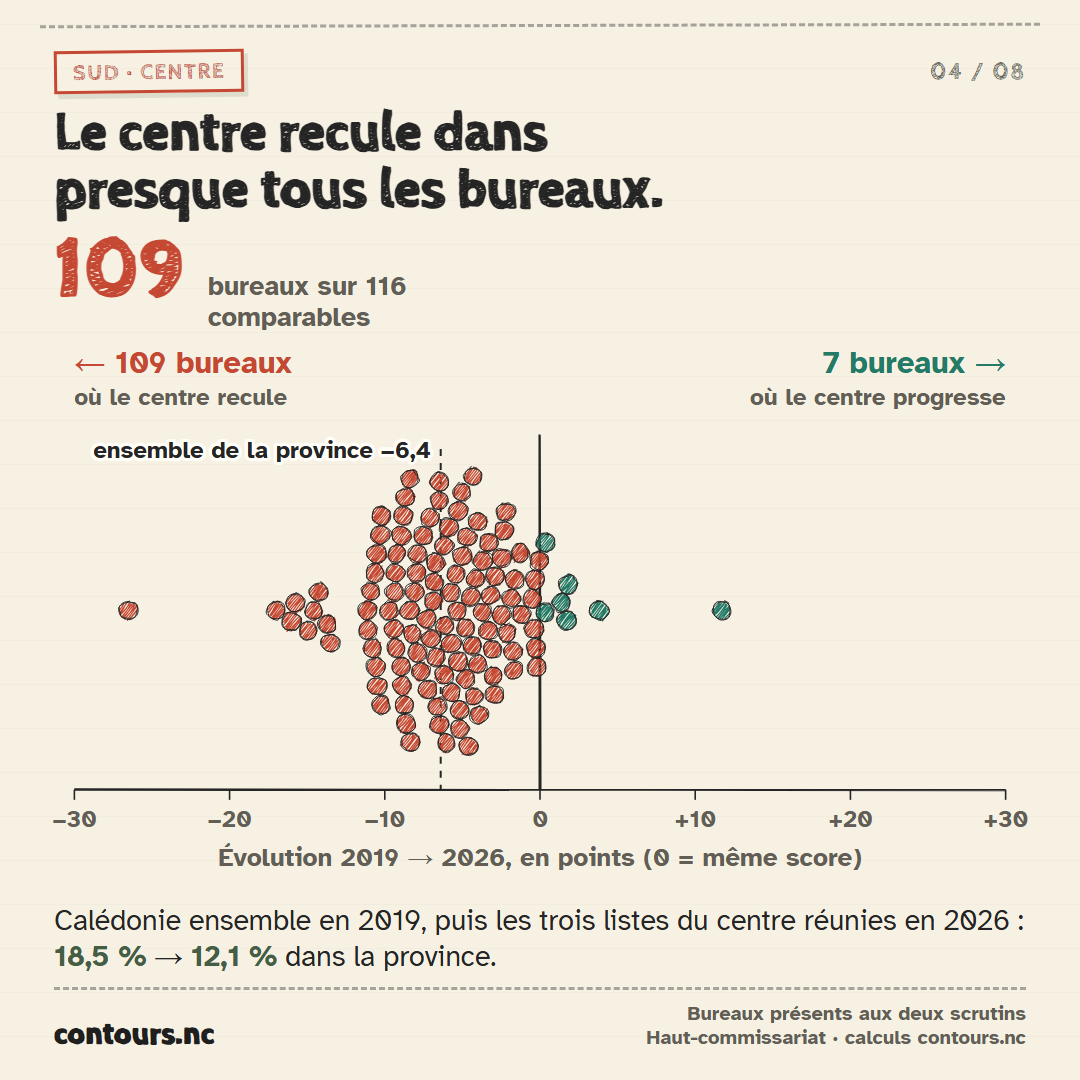
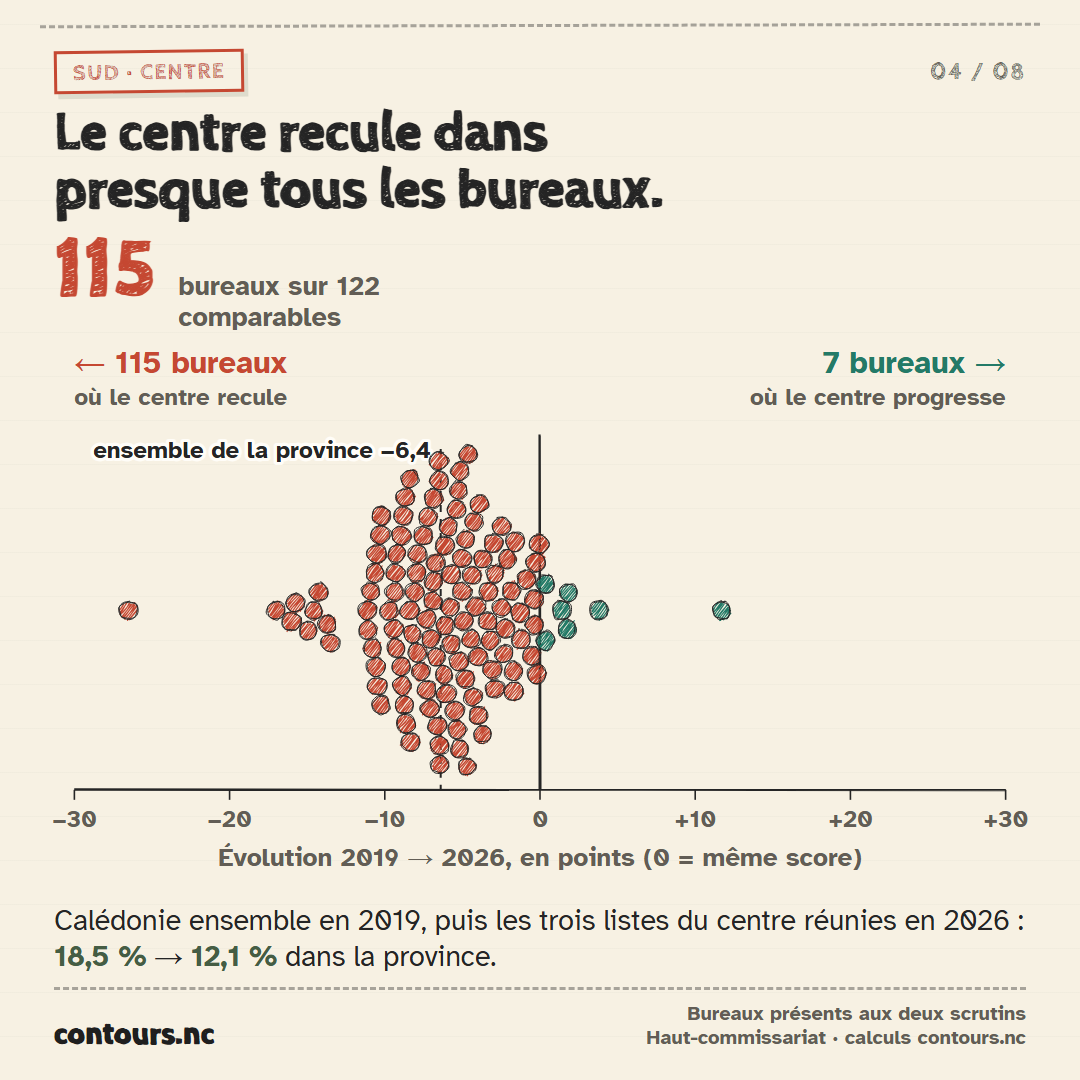
Reprend l'appariement par secteur de l'article
Le site apparie désormais les bureaux de Nouméa restés sans
correspondance par numéro de secteur (analysis.R) : les données sont
réimportées, l'essaim du centre passe à 115 bureaux sur 122 et la carte
des secteurs lit l'appariement du site au lieu de le recalculer.

Changed region(s): [[0.3667, 0.3972, 0.5806, 0.7333], [0.0611, 0.2139, 0.3972, 0.3667], [0.6417, 0.55, 0.6722, 0.5806]]

diff --git a/articles/provinciales-2026-geographie-forces-politiques/visuels.js b/articles/provinciales-2026-geographie-forces-politiques/visuels.js
@@ -69,34 +69,19 @@
   }
 
   // Évolution 2019 → 2026 du bureau de chaque secteur de Nouméa, clé :
-  // numéro du bureau de 2026 (celui du secteur). Les bureaux appariés par nom
-  // ou numéro suivent la règle de l'article ; les bureaux restés non appariés
-  // parce que leur école a changé de nom ou de site gardent leur numéro, donc
-  // leur secteur : ils sont appariés par numéro de secteur (deltas.parSecteur).
-  // Leurs inscrits évoluent comme ceux des autres bureaux (rapport 2026/2019
-  // de 1,01 à 1,28, contre 0,57 à 1,37 pour les bureaux appariés par nom).
+  // numéro du bureau de 2026 (celui du secteur). L'appariement est celui de
+  // l'article, y compris les bureaux appariés par numéro de secteur.
   function sectorDeltas(data, force) {
     const score = (year, code) => data.points.find((d) => d.province === "Province Sud" && d.commune === "Nouméa" &&
       d.annee === year && d.force === force && Number(d.code_bv) === code)?.pct;
     const deltas = new Map();
+    deltas.parSecteur = [];
     pairs(data, "Province Sud").filter((p) => p.commune === "Nouméa").forEach((pair) => {
       const before = score(2019, Number(pair.code_bv_2019));
       const after = score(2026, Number(pair.code_bv_2026));
-      if (Number.isFinite(before) && Number.isFinite(after)) deltas.set(Number(pair.code_bv_2026), after - before);
-    });
-    const unmatched = (year) => new Set(data.matches
-      .filter((d) => d.commune === "Nouméa" && d.methode === `non apparie (${year})`)
-      .map((d) => Number(year === 2019 ? d.code_bv_2019 : d.code_bv_2026)));
-    const left2019 = unmatched(2019);
-    deltas.parSecteur = [];
-    unmatched(2026).forEach((code) => {
-      if (!left2019.has(code) || deltas.has(code)) return;
-      const before = score(2019, code);
-      const after = score(2026, code);
-      if (Number.isFinite(before) && Number.isFinite(after)) {
-        deltas.set(code, after - before);
-        deltas.parSecteur.push(code);
-      }
+      if (!Number.isFinite(before) || !Number.isFinite(after)) return;
+      deltas.set(Number(pair.code_bv_2026), after - before);
+      if (pair.methode === "secteur") deltas.parSecteur.push(Number(pair.code_bv_2026));
     });
     return deltas;
   }
@@ -124,9 +109,10 @@
     );
   }
 
-  // Bureaux appariés par nom ou par numéro (appariement_bureaux_2019_2026.csv).
+  // Bureaux appariés par nom, par numéro ou, à Nouméa, par numéro de secteur
+  // (appariement_bureaux_2019_2026.csv).
   function pairs(data, province) {
-    return data.matches.filter((d) => d.province === province && (d.methode === "nom" || d.methode === "numero"));
+    return data.matches.filter((d) => d.province === province && ["nom", "numero", "secteur"].includes(d.methode));
   }
 
   function series(data, province, key, year) {

diff --git a/articles/provinciales-2026-geographie-forces-politiques/README.md b/articles/provinciales-2026-geographie-forces-politiques/README.md
@@ -19,7 +19,7 @@ En 1:1, quelques phrases secondaires sont masquées (`hide-square`) pour garder 
 
 Les cartes sont lissées comme la vue « Lissage » du site : en chaque point, voix et suffrages des bureaux voisins sont pondérés par un noyau gaussien puis rapportés, sur 12 km dans le Sud et le Nord et 8 km aux Îles (portées lues dans `metadata.json`). Au-delà d’une portée du bureau le plus proche, la couleur est pâlie ; au-delà du rayon d’affichage, rien n’est estimé. Les classes de couleur sont calculées sur la surface lissée, et les chiffres affichés restent les résultats communaux officiels.
 
-Nouméa est cartographiée par secteur électoral (`vote_context_secteurs.geojson`, couche de la Ville de Nouméa de juin 2026 publiée par l’article sur le regroupement des bureaux de vote) : chaque secteur prend l’évolution de son bureau entre 2019 et 2026. 51 bureaux sont appariés par nom, comme dans l’article. Les 6 autres (n° 18, 19, 33, 37, 38, 44) ont gardé leur numéro mais changé d’école ; ils sont appariés par numéro de secteur. Leur rapport d’inscrits 2026/2019 (1,01 à 1,28) reste dans la fourchette des bureaux appariés par nom (0,57 à 1,37). En 2026, les électeurs de Nouméa votaient dans neuf lieux regroupés : un secteur représente les électeurs d’un bureau, pas un lieu de vote.
+Nouméa est cartographiée par secteur électoral (`vote_context_secteurs.geojson`, couche de la Ville de Nouméa de juin 2026 publiée par l’article sur le regroupement des bureaux de vote) : chaque secteur prend l’évolution de son bureau entre 2019 et 2026. L’appariement est celui de l’article : 51 bureaux par nom et 6 (n° 18, 19, 33, 37, 38, 44) par numéro de secteur, parce qu’ils ont gardé leur numéro mais changé d’école. Cette règle a été ajoutée à `analysis.R` du site, qui l’applique à tous les graphiques de bureaux. Leur rapport d’inscrits 2026/2019 (1,01 à 1,28) reste dans la fourchette des bureaux appariés par nom (0,57 à 1,37). En 2026, les électeurs de Nouméa votaient dans neuf lieux regroupés : un secteur représente les électeurs d’un bureau, pas un lieu de vote.
 
 ## Régénérer
 
@@ -50,7 +50,7 @@ Si une valeur manque dans les données, la source affiche une erreur et l’expo
 Provinciales 2019 → 2026 : où les forces politiques ont-elles gagné du terrain ?
 
 Nous avons comparé les deux scrutins commune par commune et bureau par bureau.
-🔹 Sud : la droite loyaliste passe de 40,6 % à 50,1 %, bien au-delà de Nouméa, et progresse dans 53 des 57 secteurs électoraux de Nouméa. Le centre recule dans 109 des 116 bureaux comparables.
+🔹 Sud : la droite loyaliste passe de 40,6 % à 50,1 %, bien au-delà de Nouméa, et progresse dans 53 des 57 secteurs électoraux de Nouméa. Le centre recule dans 115 des 122 bureaux comparables.
 🔹 Nord : l’UC repasse devant l’UNI, dans un camp indépendantiste stable.
 🔹 Îles : l’abstention augmente dans 39 bureaux sur 41, et Maré devient le cœur d’un troisième pôle.
 
@@ -67,7 +67,7 @@ Où les forces politiques ont-elles gagné du terrain entre les provinciales de 
 
 Dans cette note de recherche, nous descendons à l’échelle des communes et des bureaux de vote. Trois provinces, trois recompositions : extension de la droite loyaliste et fragmentation du centre dans le Sud, UC devant l’UNI dans le Nord, recul de la participation et affirmation de Nation autochtone aux Îles. Partout, la moyenne provinciale cache des mouvements locaux de sens opposés.
 
-Données : résultats officiels par bureau de vote (Haut-commissariat), contrôlés contre les totaux provinciaux ; 116 bureaux comparables dans le Sud, 78 dans le Nord, 41 aux Îles.
+Données : résultats officiels par bureau de vote (Haut-commissariat), contrôlés contre les totaux provinciaux ; 122 bureaux comparables dans le Sud, 78 dans le Nord, 41 aux Îles.
 
 https://contours.nc/posts/provinciales-2026-geographie-forces-politiques/
 
@@ -82,7 +82,7 @@ Les écrans 9:16 sont des images fixes : prévoir 3 à 4 s par écran, et 6 s po
 1. Carte des trois provinces de la Nouvelle-Calédonie : entre 2019 et 2026, l’UC-FLNKS gagne 3,9 points dans le Nord, la participation recule de 11,6 points aux Îles et la droite loyaliste gagne 9,5 points dans le Sud.
 2. Carte lissée de la province Sud : la droite loyaliste passe de 40,6 % à 50,1 % des suffrages exprimés et progresse dans la plupart des communes, notamment à Poya Sud (+29,3 points), Farino (+23,7) et Nouméa (+10,1).
 3. Carte des 57 secteurs électoraux de Nouméa colorés selon l’évolution de la droite loyaliste dans leur bureau : elle progresse dans 53 secteurs ; dans toute la commune, elle passe de 50,4 % à 60,5 %.
-4. Essaim des 116 bureaux comparables de la province Sud, placés selon l’évolution du centre non-indépendantiste en points : 109 reculent, 7 progressent ; dans la province, le centre passe de 18,5 % à 12,1 % (−6,4 points).
+4. Essaim des 122 bureaux comparables de la province Sud, placés selon l’évolution du centre non-indépendantiste en points : 115 reculent, 7 progressent ; dans la province, le centre passe de 18,5 % à 12,1 % (−6,4 points).
 5. Carte lissée de la province Nord : l’UC passe de 36,0 % à 39,9 % et l’UNI de 38,5 % à 35,7 % ; l’UC progresse le plus à Houaïlou (+18,9 points) et avance à Touho (+10,3).
 6. Essaim des 41 bureaux comparables de la province des Îles, placés selon l’évolution de l’abstention en points : elle augmente dans 39 bureaux ; la participation passe de 66,5 % à 54,9 %.
 7. Carte lissée de la province des Îles : Nation autochtone obtient 62,8 % à Maré, 24,2 % à Ouvéa et 11,8 % à Lifou en 2026, soit 32,2 % dans la province contre 11,0 % pour la Dynamique autochtone en 2019.
